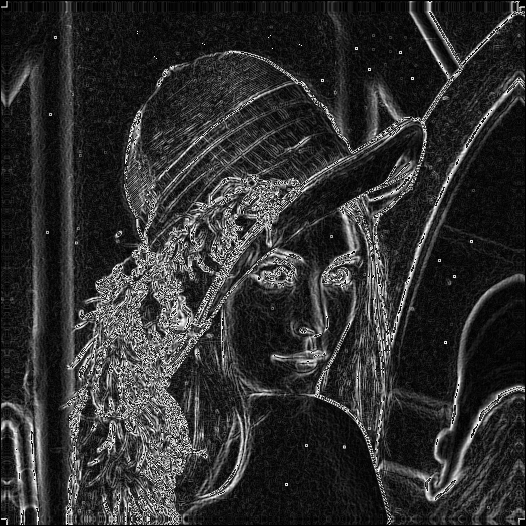
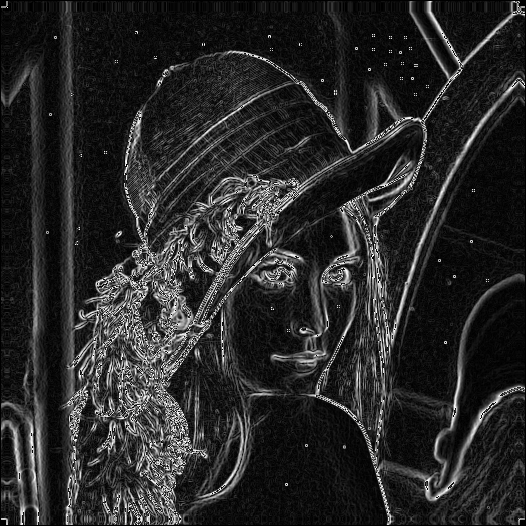
atan2

diff --git a/Sobel/src/sobel/Sobel.java b/Sobel/src/sobel/Sobel.java
@@ -17,6 +17,7 @@ public class Sobel {
         double[][] Gx = new double[rows][cols];
         double[][] Gy = new double[rows][cols];
         double[][] G  = new double[rows][cols];
+        double[][] Dir  = new double[rows][cols];
 
         for (int i = 0; i < rows; i++) {
 
@@ -28,13 +29,16 @@ public class Sobel {
 
                 } else {
 
-                    Gx[i][j] = img[i + 1][j - 1] + 2 * img[i + 1][j] + img[i + 1][j + 1]
-                        - img[i - 1][j - 1] - 2 * img[i - 1][j] - img[i - 1][j + 1];
+                    Gx[i][j] = img[i+1][j-1] + 2 * img[i+1][j] + img[i+1][j+1]
+                             - img[i-1][j-1] - 2 * img[i-1][j] - img[i-1][j+1];
 
-                    Gy[i][j] = img[i - 1][j + 1] + 2 * img[i][j + 1] + img[i + 1][j + 1]
-                        - img[i - 1][j - 1] - 2 * img[i][j - 1] - img[i + 1][j - 1];
+                    Gy[i][j] = img[i-1][j+1] + 2 * img[i][j+1] + img[i+1][j+1]
+                             - img[i-1][j-1] - 2 * img[i][j-1] - img[i+1][j-1];
 
-                    G[i][j] = Math.abs(Gx[i][j]) + Math.abs(Gy[i][j]);
+                    G[i][j] = Math.sqrt(Gx[i][j] * Gx[i][j] + Gy[i][j] * Gy[i][j]);  // Magnitude
+                    
+                    Dir[i][j] = Math.atan2(Gy[i][j],  Gx[i][j]);  // Direction                    
+
 
                 }
 
@@ -45,6 +49,7 @@ public class Sobel {
         ImageWrite("src/image/Lenna_GX.png", Gx);
         ImageWrite("src/image/Lenna_GY.png", Gy);
         ImageWrite("src/image/Lenna_G.png", G);
+        ImageWrite("src/image/Lenna_Dir.png", Dir);
         
         return "src/image/Lenna_G.png";
     }
